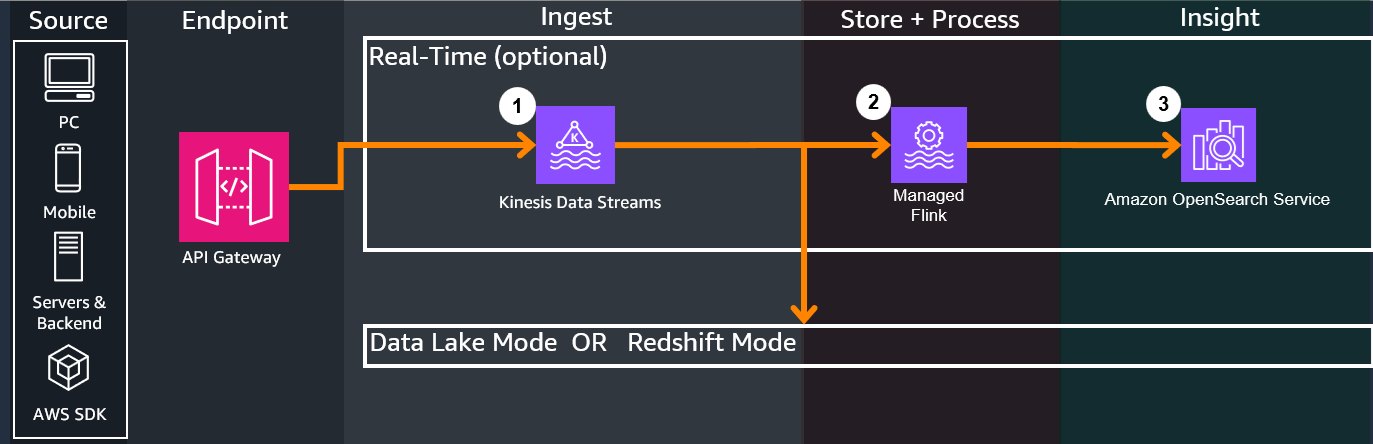
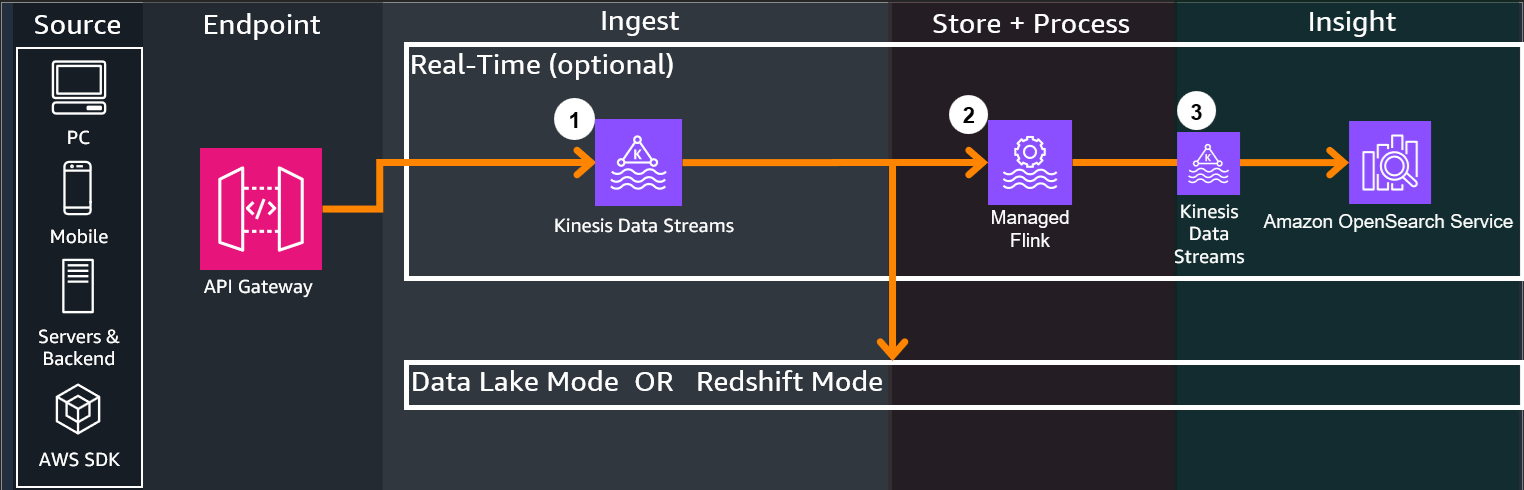
Doc updates

Changed region(s): [[0.0, 0.0, 1.0, 1.0], [0.1224, 0.1757, 1.0, 0.6149], [0.2447, 0.6734, 1.0, 0.8491]]

diff --git a/infrastructure/aws-cdk/src/app.ts b/infrastructure/aws-cdk/src/app.ts
@@ -35,11 +35,3 @@ new InfrastructureStack(app, "CentralizedGameAnalytics", {
     config,
     env
 });
-
-// Deployment through pipeline
-/*new PipelineStack(app, "PipelineStack", {
-    stackName: `${config.WORKLOAD_NAME}-Toolchain`,
-    description : "Guidance for the Game Analytics Pipeline on AWS (SO0096)",
-    config,
-    env,
-});*/

diff --git a/docs/references/file-reference.md b/docs/references/file-reference.md
@@ -1,0 +1,169 @@
+## Root File Structure
+
+This page highlights key components of the file hierarchy when navigating the guidance. It may not include extraneous files for doc clarity.
+
+```
+root/
+├─ docs/
+├─ business-logic/
+├─ infrastructure/
+├─ package.json
+```
+
+- **Docs**
+    - This folder holds all the files for this documentation site (mkdocs)
+
+- **Business Logic**
+    - This folder holds all of the "business logic", non-infrastructure files, such as:
+        - Source scripts and files for Lambda, Glue, Opensearch, API Gateway, Flink to be used for deployment
+        - Sample data event generator scripts
+
+- **Infrastructure**
+    - This folder holds all Infrastructure-as-Code (IaC) deployment files for the guidance. Can choose between AWS CDK and Terraform
+
+- **Package.json**
+    - Has config option for deploying in CDK or Terraform ("config": "iac": "cdk" | "tf") and all build commands. See [Getting Started](./getting-started.md) for more details
+
+## Business Logic Folder Deep Dive
+
+```
+business-logic/
+├─ api/
+│  ├─ admin/
+│  ├─ api-definitions/
+│  ├─ lambda-authorizer/
+├─ data-lake/
+│  ├─ glue-scripts/
+├─ events-processing/
+├─ flink-event-processing/
+├─ opensearch-ingestion/
+├─ publish-data/
+```
+
+- **api**
+    - This folder holds the business logic for the API backend:
+        - `admin/` holds all of the API serverless backend logic on AWS Lambda
+        - `api-definitions/` holds OpenAPI templates that represent the API calls. Is either a reference for CDK, or directly used as template for deployment for Terraform.
+        - `lambda-authorizer/` holds the Lambda code for the component in API Gateway that authorizes API calls before they pass through. See [Component Deep Dive](../component-deep-dive.md) for more details
+
+- **data-lake**
+    - This folder holds all of the ETL scripts that Glue runs as jobs, such as conversion jobs from one format to another, or processing jobs that optimize formats, partition, and send from raw to processed events. The guidance comes with skeleton sample scripts that have inherited best practices, but no direct transformations on the data, since those are customized by you for your use cases
+
+- **events-processing**
+    - Only used during `Data Lake` mode, Amazon Data Firehose will use the logic in here in an integrated Lambda feature for in-flight data sanitation and ETL option, akin to a "pre-processing" option for customers. See [Component Deep Dive](../component-deep-dive.md) for details on the pre-processing performed by default. This is different than the ETL processing jobs ran by Glue, which are preferable for cost reasons if data could be processed after ingestion to the S3 data lake, but for business/technical requirements that require processing as part of ingestion, the logic here can be modified
+
+- **flink-event-processing**
+    - Only used if `Real Time Analytics` is enabled, this folder holds the business logic used by Amazon Managed Service for Apache Flink for real-time processing of events. The sample application code uses Apache Maven and by default has sample transformations based on sample data sent by the `publish-data` script (see below)
+
+- **opensearch-ingestion**
+    - Only used if `Real Time Analytics` is enabled, this folder holds the template files used by Amazon Managed Opensearch Service during deployment
+
+- **publish-data**
+    - Has a sample data event generator script on Python that simulates generic game events. The sample Athena queries and Flink sample code are tied to these sample game events, so they will need to be tailored to meet your specific event data
+
+## Infrastructure Folder Deep Dive
+
+```
+infrastructure/
+├─ aws-cdk/
+│  ├─ src/
+├─ terraform/
+│  ├─ src/
+├─ config.yaml.TEMPLATE
+```
+
+- **aws-cdk / terraform**
+    - Holds the IaC template code for the respective tool, main source files are in `/src`
+
+- **config.yaml.TEMPLATE**
+    - Sample template file for settings/configurations for your deployment, which would be copied into `config.yaml`. See [Getting Started](../getting-started.md) for setting up the config file and deployment.
+
+
+## CDK Folder Deep Dive
+
+```
+src/
+├─ constructs/
+│  ├─ samples/
+├─ helpers/
+├─ app-stack.ts
+├─ app.ts
+```
+
+## Terraform Folder Deep Dive
+
+```
+├─ src/
+├─ constructs/
+│  ├─ samples/
+├─ main.tf
+```
+
+- **constructs**
+    - Holds all infrastructure template components for the guidance, but broken down into logical parts called constructs. See below for references for each construct.
+
+- **(cdk only) app.ts**
+    - Contains variable validation and top-level deployment dependencies specific to CDK / Typescript
+
+## Construct Reference
+
+- **main construct (app-stack.ts / main.tf)**
+    - Root template file that connects all constructs together along with deploying central components that have dependencies across multiple constructs (Logs + Analytics S3 buckets, DynamoDB tables, SNS Encryption key + IAM policies)
+
+- **api-construct**
+    - Deploys API backend related infrastructure, such as API Gateway and IAM roles
+
+---
+
+- **dashboard-construct**
+    - Deploys the operational real-time CloudWatch dashboard components, such as the dashboard, widgets, and metrics
+
+---
+
+- **data-lake-construct**
+    - Deploys `Data Lake Mode` components, such as Glue Database, Glue Tables (Iceberg or Hive), and Athena workgroup
+
+---
+
+- **data-processing-construct**
+    - Deploys `Data Lake Mode` components specifically to ETL processing, such as Glue Workflow, Glue Crawler + Trigger, and Glue ETL Jobs + IAM Roles
+
+---
+
+- **flink-construct**
+    - Deploys `Real Time Mode` component for Managed Service for Apache Flink, such as the Flink Application + IAM Roles and Flink Log Groups
+
+---
+
+- **lambda-construct**
+    - Deploys all Lambda function components across the guidance, such as `Data Lake Mode` event processing (Firehose), API Authorizer, API Backend (Admin Service, Redshift deployment service), and corresponding Lambda IAM Roles
+
+---
+
+- **metrics-construct**
+    - Deploys Cloudwatch Alarms such as Kinesis Data Streams alarms if those components are enabled, `Data Lake Mode` Lambda error alarms, `Data Lake Mode` Firehose alarms, DynamoDB error alarms, and API Gateway error alarms.
+
+---
+
+- **opensearch-construct**
+    - Deploys Opensearch components such as the serverless cluster, ingestion dead letter queue, encryption, IAM roles, and dashboard 
+
+---
+
+- **redshift-construct**
+    - Deploys `Redshift Mode` components such as Serverless Redshift cluster, encryption, IAM Roles, Security Group added to VPC Construct's networking components
+
+---
+
+- **streaming-ingestion-construct**
+    - Deploys `Data Lake Mode` Firehose components + IAM role + Log Groups for Iceberg and Hive
+
+---
+
+- **vpc-construct**
+    - Deploys bare-bones VPC components for `Redshift Mode` or `Real Time : Enabled` which have dependencies
+
+---
+
+- **samples/athena-construct**
+    - Deploys sample Athena queries in a nested `samples` folder, which are entirely dependent on the sample event code and is subject to greatest adjustment when implementing your own custom events

diff --git a/docs/design-considerations.md b/docs/design-considerations.md
@@ -63,18 +63,51 @@ Why can't I deploy both the Data Lake and Redshift option at the same time?
 
 ---
 
-Why KDS in between Flink and Data Lake / Redshift?
+Why is there a Kinesis Data Stream in between Flink and Opensearch for Real-Time-Analytics?
+- The Flink connector for OpenSearch currently only supports authentication via username/password which does not play well with serverless and CDK (encoding password via plaintext, no CDK construct to create it, etc). Kinesis Data Streams allows us to have an intermediary stream for Flink to output to. From there, we can ingest it using a separate OpenSearch ingestion pipeline. The pipeline does not require credential passing and handles things like scaling and failed delivery streams, and leaves the door open for other integrations if needed, such as CloudWatch metrics (V1/V2 style) or firehose.
 
 ---
 
-Why QuickSight?
-
-- ASKING ANDREI, TBD
-
----
 ## Processes
 
-- When should I use Data Lake mode vs Redshift mode?
-- When should I utilize real-time analytics?
-- Why DynamoDB with application_id 
-- why is the Schema the way we designed it?
+---
+
+When should I use Data Lake mode vs Redshift mode?
+- TODO: Need answer from Satesh
+
+---
+
+When should I utilize real-time analytics?
+
+1. Live events such as initial launches, new version launches, live-stream events, in-game events in which insights are time-sensitive to gather and action on
+
+2. Live-Ops best practices for comparing on-the-ground insights vs aggregate insights. For example, sometimes checking for insights at particular (or random) points in time can provide different insights than viewing data in larger aggregated time windows. Viewing both and comparing can provide good quality insights.
+
+3. Investigating bugs or player reports as resolution in real-time, especially if they are ongoing
+
+---
+Why do we use `application_id`, and using a DynamoDB table for managing them?
+
+- This is to address customers who would like to perform analytics across multiple games, or to ensure analytics within a single game when ingesting from multiple games. The analytics pipeline can query and partition for a single `application_id`, which are stored and managed from a DynamoDB table alongside authentication secrets to prevent cross-contamination. The DynamoDB table can be interfaced via API endpoint or directly on the AWS Console.
+
+---
+Why is the Schema the way we designed it?
+
+- Sample Event Schema for reference:
+``` hcl
+{
+    "event_id": "34c74de5-69d9-4f06-86ac-4b98fef8bca9",
+    "event_name": "login",
+    "event_type": "client",
+    "event_version": "1.0.0",
+    "event_timestamp": 1737658977,
+    "app_version": "1.0.0",
+    "event_data":
+    {
+        "platform": "pc",
+        "last_login_time": 1737658477
+    }
+}
+```
+
+- The default Schema for the guidance has a high-level schema structure for events that all events should have uniformly, and a nested `event_data` structure for event-specific variables. This separation allows schema standardization enforcement while allowing flexibility. As schemas and event types change, the `event_version` can track the versioning, and `app_version` can track against game versions. 

diff --git a/docs/component-deep-dive.md b/docs/component-deep-dive.md
@@ -57,7 +57,7 @@ The Game Analytics Pipeline Guidance can accept from any HTTP/HTTPS REST based s
 
 2. Managed Flink performs SQL based queries on time windows of the incoming streaming data, sending the query outputs to OpenSearch service
 
-3. OpenSearch ingests the query outputs and the integrated Kibana dashboard can be accessed by users to view created widgets that display graphs and information in real-time
+3. Kinesis Data Streams ingests from Managed Flink to OpenSearch, which ingests the query outputs and the integrated Kibana dashboard can be accessed by users to view created widgets that display graphs and information in real-time
 
 ![Architecture-Verbose-Real-Time-KDS](media/architecture-verbose-real-time-kds.png)
 
@@ -75,7 +75,7 @@ If `DIRECT_BATCH` is enabled, events come directly from API Gateway.
     
         - Provides an ingest buffer on incoming data, holding events until it reaches a certain size or after certain time passes
         - Triggers a Lambda Function through its [integrated Lambda transformation feature](https://docs.aws.amazon.com/firehose/latest/dev/data-transformation.html) which performs the following:
-            - Validates the event's json format against the AJV2020 standard, a valid Application ID, and the guidance's game event schema set in `business-logic/events-processing/config` (TODO: move this up to be more accessible).
+            - Validates the event's json format against the AJV2020 standard, a valid Application ID, and the guidance's game event schema set in `business-logic/events-processing/config`
             - Marks the events with a processing timestamp
             - Passes the data to a corresponding folder in S3 (prefix is set in config, default is `processed_events`, or if not valid, is still sent to not be lost and sent to a `firehose-errors/!{firehose:error-output-type}/` folder)
         - If the guidance is set to HIVE tables through the config setting `ENABLE_APACHE_ICEBERG_SUPPORT false` (default), Firehose also performs in-service partitioning on the data based on date (year, month, day), which represents as nested folders in the S3 data store as a SNAPPY parquet format
@@ -116,5 +116,3 @@ If `DIRECT_BATCH` is enabled, events come directly from API Gateway.
 1. Users can administer changes to Application IDs or authorization tokens for the Application IDs through API Gateway. See the [API Reference](./references/api-reference.md) for more details.
 
 2. The guidance also provides an operational CloudWatch dashboard to view infrastructure health and metrics, see the [Operational Dashboard Reference](./references/ops-dashboard-reference.md)
-
-## Deployment Process

diff --git a/docs/references/api-reference.md b/docs/references/api-reference.md
@@ -362,3 +362,24 @@ The Game Analytics Pipeline API is the entry point for applications to send data
     ```
     - `4XX/5XX` - See the [Troubleshooting](../troubleshooting.md) section for errors.
 ---
+
+### Redshift
+`/redshift/setup`
+#### POST - Set up Redshift
+- **Description**
+    - This operation sets up Redshift materialized views from Kinesis during setup process
+
+- **Request**
+    ``` hcl
+    POST
+    https://{YOUR_API_ENDPOINT_URL}/live/applications/redshift/setup
+    ```
+
+- **Response**
+    - `200` - Completes process and returns OK. Can be called multiple times without issues. See [Getting Started](../getting-started.md) for details on the process.
+    ``` hcl
+    {
+    }
+    ```
+
+    - `4XX/5XX` - See the [Troubleshooting](../troubleshooting.md) section for errors.

diff --git a/docs/upgrading/v2-to-v3-changes.md b/docs/upgrading/v2-to-v3-changes.md
@@ -22,7 +22,8 @@ Upgraded infrastructure to the following: (INSERT BEFORE AND AFTERS HERE)
 
 ## <u>Configuration Updates</u>
 - Added option/support for `ON_DEMAND` Kinesis Data Streams through `STREAM_PROVISIONED : true/false`
-- Replaced `ENABLE_STREAMING_ANALYTICS` with `INGEST_MODE: "KINESIS_DATA_STREAMS" | "DIRECT_BATCH"` to support future ingest options
+- Replaced `ENABLE_STREAMING_ANALYTICS` with `REAL_TIME_ANALYTICS: true | false`
+- Added `INGEST_MODE: "KINESIS_DATA_STREAMS" | "DIRECT_BATCH"` to support future ingest options
 - Added `DATA_PLATFORM_MODE: "DATA_LAKE" | "REDSHIFT"` to support Redshift deployment option
 - Added default values for configuration template file
 - Added "iac" field to top-level package.json to support CDK or Terraform deployment options
